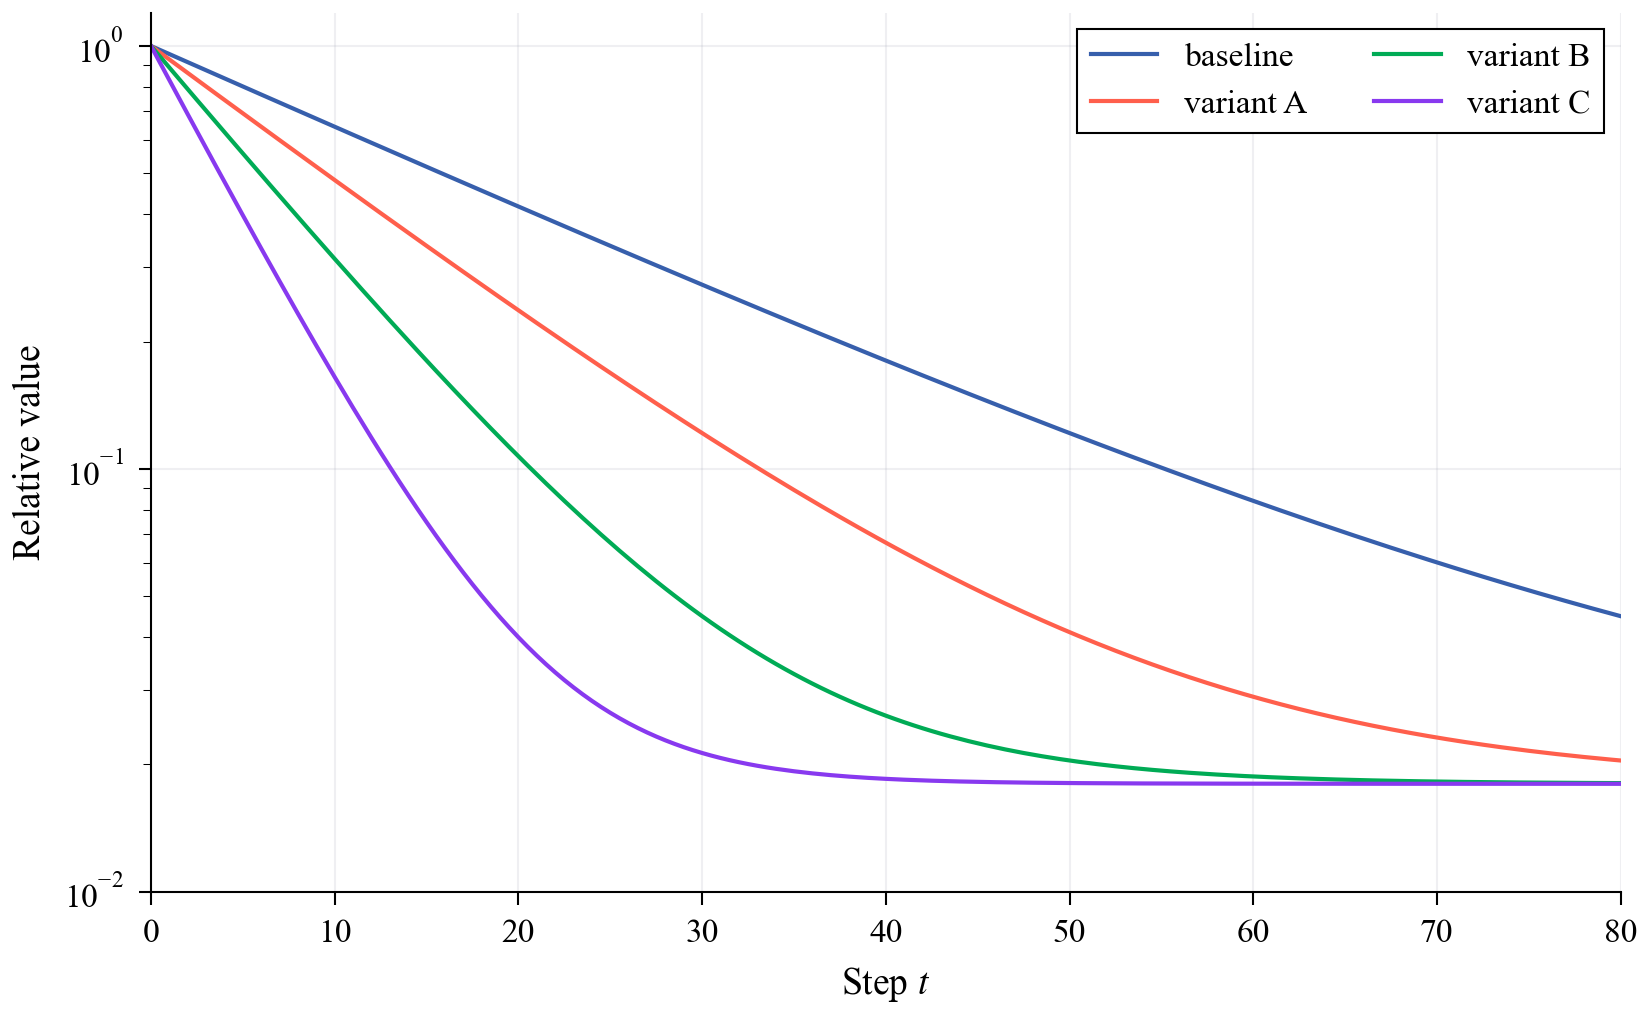
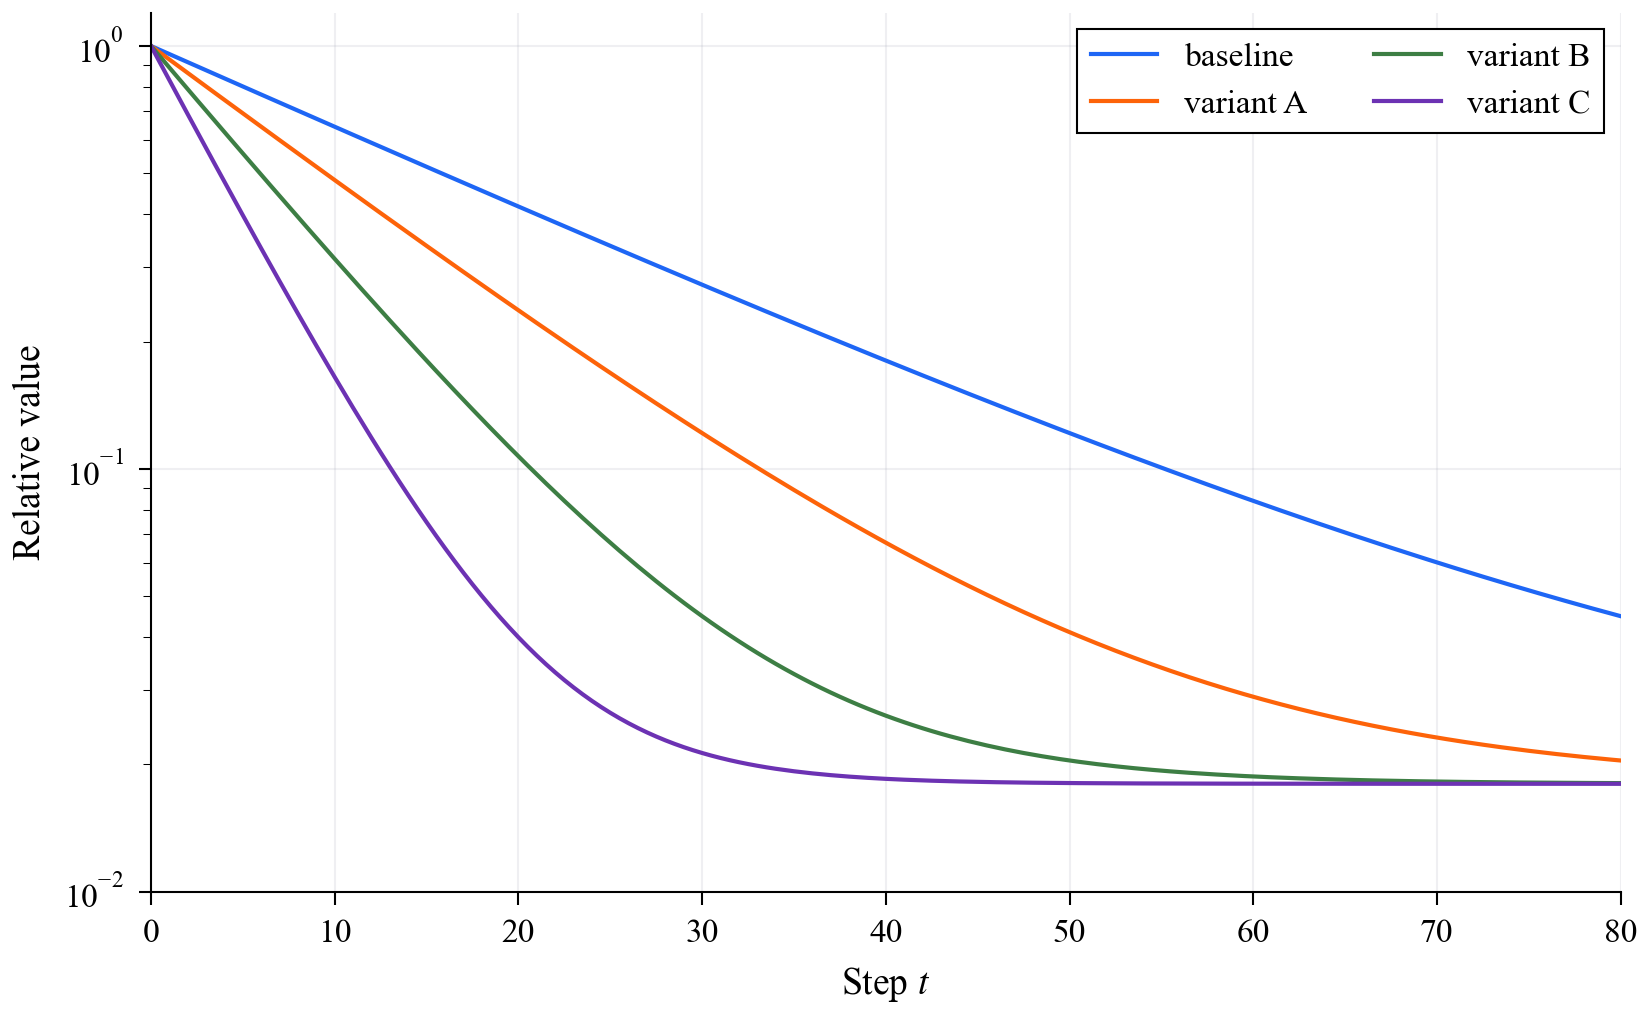
Update normal color cycle

diff --git a/tests/test_style.py b/tests/test_style.py
@@ -1,7 +1,8 @@
 """Tests for the public matplotlib style API."""
 
 from collections.abc import Callable
-from itertools import pairwise
+from itertools import combinations, pairwise
+from math import atan2, cos, degrees, exp, radians, sin, sqrt
 from typing import Any
 
 import matplotlib.pyplot as plt
@@ -46,6 +47,229 @@ def contrast_against_white(color: str) -> float:
     )
 
     return 1.05 / (relative_luminance + 0.05)
+
+
+def srgb_from_linearized_rgb_channel(value: float) -> float:
+    clipped = min(1.0, max(0.0, value))
+
+    if clipped <= 0.0031308:
+        return 12.92 * clipped
+
+    return 1.055 * clipped ** (1.0 / 2.4) - 0.055
+
+
+def lab_from_rgb(red: float, green: float, blue: float) -> tuple[float, float, float]:
+    linear_red = linearized_rgb_channel(red)
+    linear_green = linearized_rgb_channel(green)
+    linear_blue = linearized_rgb_channel(blue)
+    x = 0.4124564 * linear_red + 0.3575761 * linear_green + 0.1804375 * linear_blue
+    y = 0.2126729 * linear_red + 0.7151522 * linear_green + 0.0721750 * linear_blue
+    z = 0.0193339 * linear_red + 0.1191920 * linear_green + 0.9503041 * linear_blue
+    x_factor = lab_factor(x / 0.95047)
+    y_factor = lab_factor(y)
+    z_factor = lab_factor(z / 1.08883)
+
+    return (
+        116.0 * y_factor - 16.0,
+        500.0 * (x_factor - y_factor),
+        200.0 * (y_factor - z_factor),
+    )
+
+
+def lab_factor(value: float) -> float:
+    if value > 216.0 / 24389.0:
+        return value ** (1.0 / 3.0)
+
+    return (24389.0 / 27.0 * value + 16.0) / 116.0
+
+
+def lab_color(color: str) -> tuple[float, float, float]:
+    return lab_from_rgb(*to_rgb(color))
+
+
+def delta_e_2000(
+    left: tuple[float, float, float],
+    right: tuple[float, float, float],
+) -> float:
+    left_lightness, left_a, left_b = left
+    right_lightness, right_a, right_b = right
+    left_chroma = sqrt(left_a * left_a + left_b * left_b)
+    right_chroma = sqrt(right_a * right_a + right_b * right_b)
+    mean_chroma = 0.5 * (left_chroma + right_chroma)
+    chroma_power = mean_chroma**7
+    correction = 0.5 * (1.0 - sqrt(chroma_power / (chroma_power + 25.0**7)))
+    left_adjusted_a = (1.0 + correction) * left_a
+    right_adjusted_a = (1.0 + correction) * right_a
+    left_adjusted_chroma = sqrt(left_adjusted_a * left_adjusted_a + left_b * left_b)
+    right_adjusted_chroma = sqrt(
+        right_adjusted_a * right_adjusted_a + right_b * right_b,
+    )
+    left_hue = hue_angle(left_b, left_adjusted_a, left_adjusted_chroma)
+    right_hue = hue_angle(right_b, right_adjusted_a, right_adjusted_chroma)
+    lightness_delta = right_lightness - left_lightness
+    chroma_delta = right_adjusted_chroma - left_adjusted_chroma
+    hue_delta = adjusted_hue_delta(
+        left_hue=left_hue,
+        right_hue=right_hue,
+        left_chroma=left_adjusted_chroma,
+        right_chroma=right_adjusted_chroma,
+    )
+    hue_component = (
+        2.0
+        * sqrt(left_adjusted_chroma * right_adjusted_chroma)
+        * sin(radians(0.5 * hue_delta))
+    )
+    mean_lightness = 0.5 * (left_lightness + right_lightness)
+    mean_adjusted_chroma = 0.5 * (left_adjusted_chroma + right_adjusted_chroma)
+    mean_hue = adjusted_mean_hue(
+        left_hue=left_hue,
+        right_hue=right_hue,
+        left_chroma=left_adjusted_chroma,
+        right_chroma=right_adjusted_chroma,
+    )
+    hue_weight = (
+        1.0
+        - 0.17 * cos(radians(mean_hue - 30.0))
+        + 0.24 * cos(radians(2.0 * mean_hue))
+        + 0.32 * cos(radians(3.0 * mean_hue + 6.0))
+        - 0.20 * cos(radians(4.0 * mean_hue - 63.0))
+    )
+    hue_rotation_angle = 30.0 * exp(-(((mean_hue - 275.0) / 25.0) ** 2))
+    adjusted_chroma_power = mean_adjusted_chroma**7
+    chroma_rotation = 2.0 * sqrt(
+        adjusted_chroma_power / (adjusted_chroma_power + 25.0**7),
+    )
+    lightness_weight = 1.0 + (0.015 * (mean_lightness - 50.0) ** 2) / sqrt(
+        20.0 + (mean_lightness - 50.0) ** 2
+    )
+    chroma_weight = 1.0 + 0.045 * mean_adjusted_chroma
+    hue_scale = 1.0 + 0.015 * mean_adjusted_chroma * hue_weight
+    rotation_term = -sin(radians(2.0 * hue_rotation_angle)) * chroma_rotation
+    lightness_term = lightness_delta / lightness_weight
+    chroma_term = chroma_delta / chroma_weight
+    hue_term = hue_component / hue_scale
+
+    return sqrt(
+        lightness_term * lightness_term
+        + chroma_term * chroma_term
+        + hue_term * hue_term
+        + rotation_term * chroma_term * hue_term,
+    )
+
+
+def hue_angle(b_value: float, a_value: float, chroma: float) -> float:
+    if chroma <= 0.0:
+        return 0.0
+
+    return degrees(atan2(b_value, a_value)) % 360.0
+
+
+def adjusted_hue_delta(
+    *,
+    left_hue: float,
+    right_hue: float,
+    left_chroma: float,
+    right_chroma: float,
+) -> float:
+    if left_chroma * right_chroma <= 0.0:
+        return 0.0
+
+    hue_delta = right_hue - left_hue
+
+    if hue_delta > 180.0:
+        return hue_delta - 360.0
+
+    if hue_delta < -180.0:
+        return hue_delta + 360.0
+
+    return hue_delta
+
+
+def adjusted_mean_hue(
+    *,
+    left_hue: float,
+    right_hue: float,
+    left_chroma: float,
+    right_chroma: float,
+) -> float:
+    if left_chroma * right_chroma <= 0.0:
+        return left_hue + right_hue
+
+    if abs(left_hue - right_hue) <= 180.0:
+        return 0.5 * (left_hue + right_hue)
+
+    if left_hue + right_hue < 360.0:
+        return 0.5 * (left_hue + right_hue + 360.0)
+
+    return 0.5 * (left_hue + right_hue - 360.0)
+
+
+def simulated_cvd_lab(
+    color: str,
+    matrix: tuple[tuple[float, float, float], ...],
+) -> tuple[float, float, float]:
+    red, green, blue = to_rgb(color)
+    linear = (
+        linearized_rgb_channel(red),
+        linearized_rgb_channel(green),
+        linearized_rgb_channel(blue),
+    )
+    transformed = [
+        srgb_from_linearized_rgb_channel(
+            sum(row[index] * linear[index] for index in range(3)),
+        )
+        for row in matrix
+    ]
+
+    return lab_from_rgb(transformed[0], transformed[1], transformed[2])
+
+
+def cols4all_pair_distance(left: str, right: str) -> float:
+    distances = [
+        delta_e_2000(lab_color(left), lab_color(right)),
+        *(
+            delta_e_2000(
+                simulated_cvd_lab(left, matrix),
+                simulated_cvd_lab(right, matrix),
+            )
+            for matrix in CVD_MATRICES.values()
+        ),
+    ]
+
+    return min(distances)
+
+
+def colors_satisfy_normal_cycle_constraints(colors: list[str]) -> bool:
+    if any(contrast_against_white(color) < WHITE_CONTRAST_MIN for color in colors):
+        return False
+
+    for left, right in combinations(colors, 2):
+        if cols4all_pair_distance(left, right) < COLS4ALL_DISTANCE_MIN:
+            return False
+
+    return True
+
+
+def max_feasible_latte_prefix_length() -> int:
+    latte_cycle = CATPPUCCIN_CYCLES["latte"]
+
+    for length in range(len(latte_cycle) + 1):
+        if not colors_satisfy_normal_cycle_constraints(latte_cycle[:length]):
+            return length - 1
+
+    return len(latte_cycle)
+
+
+def count_unchanged_latte_prefix(colors: tuple[str, ...]) -> int:
+    count = 0
+
+    for color, original in zip(colors, CATPPUCCIN_CYCLES["latte"], strict=True):
+        if color != original:
+            return count
+
+        count += 1
+
+    return count
 
 
 def colormap_colors(theme: str) -> list[str]:
@@ -110,6 +334,26 @@ CATPPUCCIN_CYCLES = {
     ],
 }
 
+WHITE_CONTRAST_MIN = 3.0
+COLS4ALL_DISTANCE_MIN = 10.0
+CVD_MATRICES = {
+    "protan": (
+        (0.152286, 1.052583, -0.204868),
+        (0.114503, 0.786281, 0.099216),
+        (-0.003882, -0.048116, 1.051998),
+    ),
+    "deutan": (
+        (0.367322, 0.860646, -0.227968),
+        (0.280085, 0.672501, 0.047413),
+        (-0.011820, 0.042940, 0.968881),
+    ),
+    "tritan": (
+        (1.255528, -0.076749, -0.178779),
+        (-0.078411, 0.930809, 0.147602),
+        (0.004733, 0.691367, 0.303900),
+    ),
+}
+
 
 def test_public_api_exposes_style_and_font_registration() -> None:
     assert figmint.__all__ == ["register_fonts", "style"]
@@ -163,6 +407,9 @@ def test_default_theme_is_publication_style() -> None:
     assert value(config, "legend.fontsize") == pytest.approx(8.0)
     assert value(config, "xtick.labelsize") == pytest.approx(8.0)
     assert value(config, "ytick.labelsize") == pytest.approx(8.0)
+    assert value(config, "pdf.fonttype") == 42
+    assert value(config, "ps.fonttype") == 42
+    assert value(config, "svg.fonttype") == "none"
 
 
 @pytest.mark.parametrize(
@@ -217,8 +464,15 @@ def test_normal_color_cycle_is_repaired_latte_cycle() -> None:
     ] == list(REPAIRED_LATTE_CYCLE)
 
 
-def test_repaired_latte_cycle_has_white_background_contrast() -> None:
-    assert min(contrast_against_white(color) for color in REPAIRED_LATTE_CYCLE) >= 3.0
+def test_repaired_latte_cycle_satisfies_normal_constraints() -> None:
+    assert colors_satisfy_normal_cycle_constraints(list(REPAIRED_LATTE_CYCLE))
+
+
+def test_repaired_latte_cycle_keeps_longest_feasible_latte_prefix() -> None:
+    assert max_feasible_latte_prefix_length() == 1
+    assert count_unchanged_latte_prefix(REPAIRED_LATTE_CYCLE) == 1
+    assert REPAIRED_LATTE_CYCLE[0] == CATPPUCCIN_CYCLES["latte"][0]
+    assert REPAIRED_LATTE_CYCLE[1] != CATPPUCCIN_CYCLES["latte"][1]
 
 
 def test_normal_grid_matches_latte_grid() -> None:

diff --git a/src/figmint/_style.py b/src/figmint/_style.py
@@ -96,6 +96,7 @@ def style(
         **_font_size_config(
             font_size=_resolve_font_size(venue=venue, font_size=font_size),
         ),
+        **_export_config(),
         **_line_config(line_width=line_width),
         **_theme_config(theme=theme, grid_alpha=grid_alpha),
     }
@@ -324,6 +325,14 @@ def _figure_size_config(*, figure_size: tuple[float, float]) -> dict[str, object
         "figure.constrained_layout.use": True,
         "figure.autolayout": False,
         "savefig.pad_inches": PAD_INCHES,
+    }
+
+
+def _export_config() -> dict[str, object]:
+    return {
+        "pdf.fonttype": 42,
+        "ps.fonttype": 42,
+        "svg.fonttype": "none",
     }
 
 

diff --git a/src/figmint/_colors.py b/src/figmint/_colors.py
@@ -12,16 +12,16 @@ class ColorTheme(TypedDict):
 
 
 REPAIRED_LATTE_CYCLE = (
-    "#375fac",
-    "#ff5f4c",
-    "#00ab55",
-    "#8839ef",
-    "#d20f39",
-    "#bf7300",
-    "#6e9296",
-    "#e154c4",
-    "#268295",
-    "#7287fd",
+    "#1e66f5",
+    "#fd6309",
+    "#3d7e44",
+    "#6c32b3",
+    "#dd0337",
+    "#b38e59",
+    "#008f9a",
+    "#d76dba",
+    "#7b9b93",
+    "#6490fe",
 )
 
 

diff --git a/README.md b/README.md
@@ -106,26 +106,34 @@ Supported themes are:
 - `macchiato`
 - `mocha`
 
-`normal` uses a white background, black text, black edges, a repaired Catppuccin Latte categorical cycle, and Matplotlib's built-in `plasma` colormap for scalar data. Paper figures also use framed legends and a low-alpha default grid. The normal categorical cycle keeps the Latte ordering and changes the fewest possible entries needed to meet the white-background contrast and CVD-separation checks used for the package.
+`normal` uses a white background, black text, black edges, a repaired Catppuccin Latte categorical cycle, and Matplotlib's built-in `plasma` colormap for scalar data. Paper figures also use framed legends and a low-alpha default grid. The normal categorical cycle keeps the Latte ordering and treats the cycle order as a priority list: earlier colors move only when the constraints force them to move, while later colors absorb more of the repair.
 
 ### Normal Color Cycle
 
-The `normal` color cycle is a constrained repair of the Catppuccin Latte cycle to adhere to academic plotting best practices. We chose the Catppuccin Latte cycle as the initialization because we love it wholeheartedly.
+The `normal` color cycle is a constrained repair of the Catppuccin Latte cycle for white-background academic figures. The Catppuccin Latte cycle is the starting point and the repaired cycle stays in the same order.
 
-Let $p_i$ be the original Latte color at cycle index $i$ and $c_i$ be the repaired color at the same index. We ran a finite, quantized sRGB search problem on 8-bit colors. The objective was lexicographic: $$\operatorname{lexmin}_{c_1,\ldots,c_n}\left(\sum_i \mathbf{1}[c_i \ne p_i], \sum_i d_{\mathrm{OKLab}}(c_i,p_i)^2\right)$$
+Let $p_i$ be the original Latte color at cycle index $i$ and $c_i$ be the repaired color at the same index. Colors live on the 8-bit sRGB grid, so each channel is an integer in $\{0,\ldots,255\}$. The first objective is to maximize the unchanged prefix length $k(c)=\max\{r:c_i=p_i\text{ for every }i<r\}$. Among palettes with maximal $k$, the second objective is lexicographic movement by cycle position: $$\operatorname{lexmin}_{c_0,\ldots,c_{n-1}}\left(\Delta E_{00}(c_k,p_k)^2,\Delta E_{00}(c_{k+1},p_{k+1})^2,\ldots,\Delta E_{00}(c_{n-1},p_{n-1})^2\right)$$
 
 The constraints were:
 
 - fixed ordering: color $c_i$ stays at Latte cycle position $i$;
 - exact preservation when possible: $c_i=p_i$ unless moving it is needed for a constraint;
-- white-background contrast: $C(c_i,\mathrm{white}) \ge 3.0$ for every repaired color;
-- color-vision separation: $\Delta_m(c_i,c_j) \ge \tau$ for every distinct pair $i \ne j$ and every simulated mode $m$ in the protan, deutan, and tritan family.
+- white-background contrast: $C(c_i,\mathrm{white}) \ge 3.0$ for every repaired color, using WCAG relative-luminance contrast;
+- categorical separation: $D(c_i,c_j) \ge 10$ for every distinct pair $i \neq j$.
 
-The first objective counts how many Latte entries moved. The second objective keeps the moved colors close to their original Latte colors. This makes the intervention minimal in the useful sense: keep the Catppuccin identity and ordering, then move only the entries that must move, then move them as little as possible.
+The pairwise distance is the smallest CIEDE2000 distance over normal vision and three simulated color-vision modes: $$D(c_i,c_j)=\min_{m \in \{\mathrm{normal},\mathrm{protan},\mathrm{deutan},\mathrm{tritan}\}}\Delta E_{00}(S_m(c_i),S_m(c_j))$$
 
-Gray-scale separation is deliberately excluded from the constraints. The target medium is digital color academic figures, and in 2026 that is the main reading path. A gray-scale constraint forces the palette to spend contrast budget on luminance ordering, which fights the color-vision constraints and makes the colors worse for the actual default use case. For black-and-white output, the right mechanism is redundant encoding: markers, line styles, hatches, direct labels, or separate figure variants.
+Here $S_m$ is the identity transform for normal vision and a severity-100 linear-RGB color-vision simulation for the other modes, clipped back into displayable sRGB before converting to CIELAB. The threshold $10$ is the default categorical color-blind-friendly `min_dist` bar used by `cols4all`.
 
-The Catppuccin colors used by the themed styles are official palette values. Each themed style sets both the line/bar color cycle and a sequential Matplotlib colormap built from the theme background, main accent, and text colors. Dark themes set the axes, figure, and saved-output background to the theme base color, so exported plots can be imported into matching slide decks without a white rectangle.
+The objective encodes the usual use pattern of a color cycle. The first few colors appear most often, so they get first claim on staying close to Catppuccin Latte. Later colors are still constrained by contrast and color-vision separation, but they are allowed to move more when that protects earlier entries.
+
+The one-time computation used the constraints above as an 8-bit sRGB constrained search and ranked feasible candidates by the objective above. The original `peach` fails the white-background contrast threshold, so the longest feasible unchanged prefix is one color. The shipped `normal` cycle keeps `blue` exactly, repairs `peach` first, and lets later entries carry the remaining pairwise-separation requirements. The test suite verifies the constraints above and checks the unchanged-prefix bound.
+
+Grayscale separation is deliberately excluded from the constraints. The target medium is digital color academic figures, and in 2026 that is the main reading path. A grayscale constraint forces the palette to spend contrast budget on luminance ordering, which fights the color-vision constraints and makes the colors worse for the actual default use case. For black-and-white output, the right mechanism is redundant encoding: markers, line styles, hatches, direct labels, or separate figure variants.
+
+The separation criterion follows the categorical `min_dist` check in [`cols4all`](https://cols4all.github.io/cols4all-R/articles/01_paper.html). The white-background contrast constraint follows the [WCAG non-text contrast](https://www.w3.org/WAI/WCAG22/Understanding/non-text-contrast.html) threshold for graphical objects. The broader goals follow scientific-colormap guidance from [Crameri et al.](https://www.nature.com/articles/s41467-020-19160-7): perceptual separation, color-vision robustness, and readable scientific figures.
+
+The formal repair above applies only to `normal`. The Catppuccin colors used by the themed styles are official palette values. Each themed style sets both the line/bar color cycle and a sequential Matplotlib colormap built from the theme background, main accent, and text colors. Dark themes set the axes, figure, and saved-output background to the theme base color, so exported plots can be imported into matching slide decks without a white rectangle.
 
 ## Venue Presets
 
